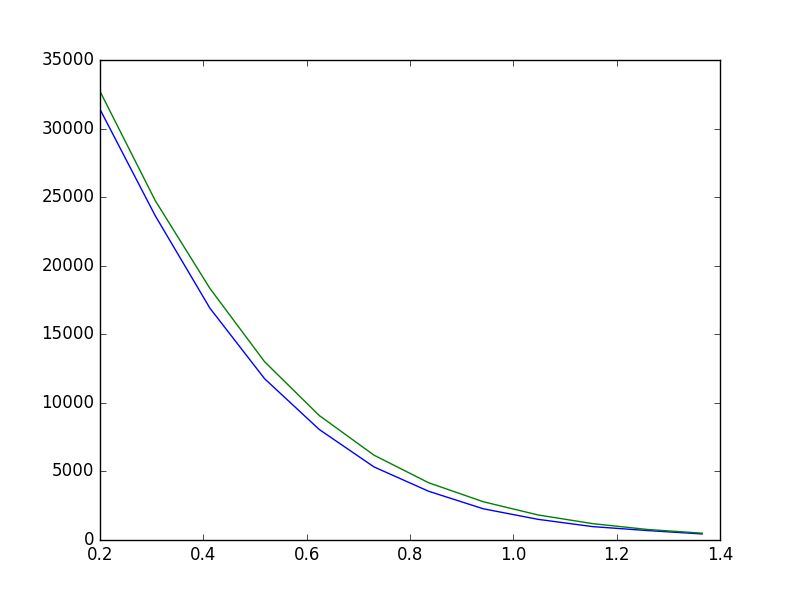
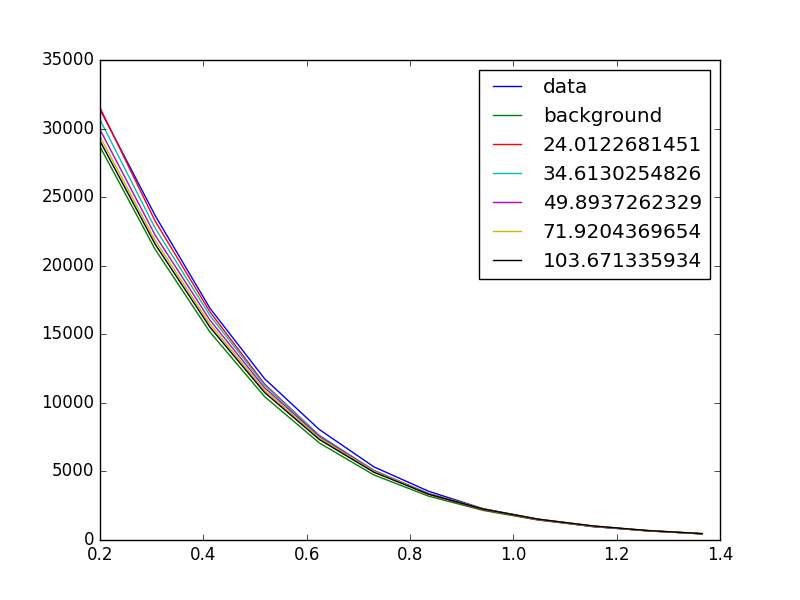
its working as intended

Changed region(s): [[0.5938, 0.09, 0.9062, 0.48], [0.125, 0.18, 0.875, 0.9]]

diff --git a/GCE_calcs/analysis.py b/GCE_calcs/analysis.py
@@ -7,8 +7,11 @@ from scipy import stats
 def poisson_log_like(k,mu):
     return k*np.log(mu) - mu - k*np.log(k) + k
 
+def poisson_log_like_unnorm(k,mu):
+    return k*np.log(mu) - mu
+
 def poisson_like(k,mu):
-    return mu**k * np.exp(-mu) / exp(k*np.log(k) - k)
+    return mu**k * np.exp(-mu) / np.exp(k*np.log(k) - k)
 
 def gauss_log_like(k,mu):
     print k.shape
@@ -28,6 +31,132 @@ def get_J_log_prior_fast(J):
 def get_J_prior_MC(J_range):
     # J_range is a vector of J values where the KDE is to be evaluated
     rho = np.random.normal(0.28,0.08,80000)
-    J = 2e23*rho**2
+    J = 2.e23*rho**2
     J_kde = stats.gaussian_kde(J)
     return J_kde(J_range)
+
+def get_J_prior_Bootes(J):
+    log_J_mean = 18.8
+    log_J_sigma = 0.22
+    exponent = np.random.normal(log_J_mean,log_J_sigma,80000)
+    J_kde = stats.gaussian_kde(10.**exponent)
+    return J_kde(J)
+
+def get_J_prior_CanesVenaticiII(J):
+    log_J_mean = 17.9
+    log_J_sigma = 0.25
+    exponent = np.random.normal(log_J_mean,log_J_sigma,80000)
+    J_kde = stats.gaussian_kde(10.**exponent)
+    return J_kde(J)
+
+def get_J_prior_Carina(J):
+    log_J_mean = 18.1
+    log_J_sigma = 0.23
+    exponent = np.random.normal(log_J_mean,log_J_sigma,80000)
+    J_kde = stats.gaussian_kde(10.**exponent)
+    return J_kde(J)
+
+def get_J_prior_ComaBerenices(J):
+    log_J_mean = 19.0
+    log_J_sigma = 0.25
+    exponent = np.random.normal(log_J_mean,log_J_sigma,80000)
+    J_kde = stats.gaussian_kde(10.**exponent)
+    return J_kde(J)
+
+def get_J_prior_Draco(J):
+    log_J_mean = 18.8
+    log_J_sigma = 0.16
+    exponent = np.random.normal(log_J_mean,log_J_sigma,80000)
+    J_kde = stats.gaussian_kde(10.**exponent)
+    return J_kde(J)
+
+def get_J_prior_Fornax(J):
+    log_J_mean = 18.2
+    log_J_sigma = 0.21
+    exponent = np.random.normal(log_J_mean,log_J_sigma,80000)
+    J_kde = stats.gaussian_kde(10.**exponent)
+    return J_kde(J)
+
+def get_J_prior_Hercules(J):
+    log_J_mean = 18.1
+    log_J_sigma = 0.25
+    exponent = np.random.normal(log_J_mean,log_J_sigma,80000)
+    J_kde = stats.gaussian_kde(10.**exponent)
+    return J_kde(J)
+
+def get_J_prior_LeoII(J):
+    log_J_mean = 17.6
+    log_J_sigma = 0.18
+    exponent = np.random.normal(log_J_mean,log_J_sigma,80000)
+    J_kde = stats.gaussian_kde(10.**exponent)
+    return J_kde(J)
+
+def get_J_prior_LeoIV(J):
+    log_J_mean = 17.9
+    log_J_sigma = 0.28
+    exponent = np.random.normal(log_J_mean,log_J_sigma,80000)
+    J_kde = stats.gaussian_kde(10.**exponent)
+    return J_kde(J)
+
+def get_J_prior_Sculptor(J):
+    log_J_mean = 18.6
+    log_J_sigma = 0.18
+    exponent = np.random.normal(log_J_mean,log_J_sigma,80000)
+    J_kde = stats.gaussian_kde(10.**exponent)
+    return J_kde(J)
+
+def get_J_prior_SegueI(J):
+    log_J_mean = 19.5
+    log_J_sigma = 0.29
+    exponent = np.random.normal(log_J_mean,log_J_sigma,80000)
+    J_kde = stats.gaussian_kde(10.**exponent)
+    return J_kde(J)
+
+def get_J_prior_Sextans(J):
+    log_J_mean = 18.4
+    log_J_sigma = 0.27
+    exponent = np.random.normal(log_J_mean,log_J_sigma,80000)
+    J_kde = stats.gaussian_kde(10.**exponent)
+    return J_kde(J)
+
+def get_J_prior_UrsaMajorII(J):
+    log_J_mean = 19.3
+    log_J_sigma = 0.28
+    exponent = np.random.normal(log_J_mean,log_J_sigma,80000)
+    J_kde = stats.gaussian_kde(10.**exponent)
+    return J_kde(J)
+
+def get_J_prior_UrsaMinor(J):
+    log_J_mean = 18.8
+    log_J_sigma = 0.19
+    exponent = np.random.normal(log_J_mean,log_J_sigma,80000)
+    J_kde = stats.gaussian_kde(10.**exponent)
+    return J_kde(J)
+
+def get_J_prior_WillmanI(J):
+    log_J_mean = 19.1
+    log_J_sigma = 0.31
+    exponent = np.random.normal(log_J_mean,log_J_sigma,80000)
+    J_kde = stats.gaussian_kde(10.**exponent)
+    return J_kde(J)
+
+def get_J_prior_CanesVenaticiI(J):
+    log_J_mean = 17.7
+    log_J_sigma = 0.26
+    exponent = np.random.normal(log_J_mean,log_J_sigma,80000)
+    J_kde = stats.gaussian_kde(10.**exponent)
+    return J_kde(J)
+
+def get_J_prior_LeoI(J):
+    log_J_mean = 17.7
+    log_J_sigma = 0.18
+    exponent = np.random.normal(log_J_mean,log_J_sigma,80000)
+    J_kde = stats.gaussian_kde(10.**exponent)
+    return J_kde(J)
+
+def get_J_prior_UrsaMajorI(J):
+    log_J_mean = 18.3
+    log_J_sigma = 0.24
+    exponent = np.random.normal(log_J_mean,log_J_sigma,80000)
+    J_kde = stats.gaussian_kde(10.**exponent)
+    return J_kde(J)

diff --git a/GCE_jla.py b/GCE_jla.py
@@ -49,68 +49,81 @@ exposure = raw[trunc:dataset,6]
 
 binned_spectra = np.loadtxt('spectra/binned/binned_spectra_'+output_file+'_'+str(dataset)+'_'+str(trunc)+'.dat')
 
+n_J=400
 #J = np.array([1.e21,1.e22,1.e23])
-#J = np.logspace(20.,24.,num=40)
-J = np.array([1.5e22])
+J = np.logspace(20.,24.,num=n_J)
+#J = np.array([1.5e22])
 
-log_sigma = np.linspace(-27.,-23.,num=20)
+n_mass = len(mass_table)
+
+n_sigma = 40
+sigma = np.logspace(-27.,-24.,num=n_sigma)
 #log_sigma = np.array([np.log10(3.e-26)])
 #log_sigma = np.array([-23.,-24.,-25.,-26.,-27.])
 
 #mass = np.array([10,20,30,40,50,60,70])
 
-mu = GCE_calcs.calculations.get_mu(background,exposure, binned_spectra, J, log_sigma, mass_table)
+mu = GCE_calcs.calculations.get_mu(background,exposure, binned_spectra, J, sigma, mass_table)
 
 
-plt.plot(bin_center,k)
-plt.plot(bin_center,mu[10,0,35,:])
+plt.plot(bin_center,k,label = 'data')
+plt.plot(bin_center,background,label = 'background')
+for i in range(5):
+    plt.plot(bin_center,mu[n_sigma/2,n_J/2,5+10*i,:],label = str(mass_table[5+10*i]))
+plt.legend(loc='best')
 plt.savefig('spectra_test.png')
+plt.clf()
 
-print k
-print k - background
+k = np.tile(k,(n_sigma,n_J,n_mass,1))
 
-array_log_like = GCE_calcs.analysis.poisson_log_like(k,mu)
+log_like = GCE_calcs.analysis.poisson_log_like(k,mu)
 
-print array_log_like.shape
+print log_like.shape
 
-gauss_log_like = GCE_calcs.analysis.gauss_log_like_unnorm(k,mu)
+log_like2 = np.sum(log_like,axis=3)
 
-print gauss_log_like.shape
-
-n_cross, n_J, n_mass, n_spec = array_log_like.shape
+print log_like2.shape
 
 J_prior = GCE_calcs.analysis.get_J_prior_MC(J)
 
-J_prior = np.tile(J_prior,(n_cross, n_mass, n_spec, 1))
+norm_test = np.trapz(J_prior,x=J)
 
-J_prior = J_prior.reshape(array_log_like.shape)
+print norm_test
 
-print J_prior.shape
+J_prior = np.tile(J_prior[np.newaxis,:,np.newaxis],(n_sigma,1,n_mass))
 
-post = gauss_log_like + np.log(J_prior)
+norm_test2 = np.trapz(J_prior,x=J,axis=1)
+print norm_test2.shape
+print norm_test2
 
-print post.shape
+J_prior[J_prior==0]=1.e-300
 
-post = np.sum(post,axis=3)
+post_nlp = log_like2 + np.log(J_prior)
 
-print post.shape
+post_test = np.exp(log_like2)*J_prior
 
-post_pdf = np.exp(post)
+post_test2 = np.trapz(post_test,x=J,axis=1)
 
-#J = np.tile()
+post_test3 = np.log(post_test2)
 
-post_pdf = np.trapz(post_pdf,x = J ,axis=1)
+post_test4 = post_test3 - post_test3.max()
 
-print post_pdf.shape
 
-#print post_pdf
 
-post_log_pdf = np.log(post_pdf)
-post_log_pdf = post_log_pdf - post_log_pdf.max()
+post_nlp_min = np.amax(post_nlp,axis=1)
 
-#print post_log_pdf
 
-levels = [0,1.2,3.3,6.35,15]
-plt.contour(mass_table,log_sigma,-post_log_pdf,levels)
+post_nlp_min2 = post_nlp_min - post_nlp_min.max()
+
+
+
+levels = [0,1,3,6,12]
+#plt.contour(mass_table,log_sigma,-post_log_pdf[:,2,:],levels)
+#plt.contour(mass_table,np.log10(sigma),-post_nlp_min2,levels)
+plt.contour(mass_table,np.log10(sigma),-post_test4,levels)
 plt.savefig('array_test.png')
+
+
+
+
 

diff --git a/GCE_calcs/calculations.py b/GCE_calcs/calculations.py
@@ -23,23 +23,22 @@ def J_factor(scale_radius,local_density,gamma):
     deltaomega = (7.*np.pi/180.)**2
     return  deltaomega*J*8.25*kpctocm*local_density*local_density
 
-def get_mu(bckgrnd,exposure,num_spec,J,log_sigma,mass):
-    print bckgrnd
+def get_mu(bckgrnd,exposure,num_spec,J,sigma,mass):
+    #print bckgrnd
     #should return an array of shape (n_cross,n_J,n_mass,n_spec)
-    n_cross = len(log_sigma)
+    n_cross = len(sigma)
     n_mass = len(mass)
     n_J = len(J)
     exposure = np.tile(exposure,(n_mass,1))
     bckgrnd = np.tile(bckgrnd,(n_cross,n_J,n_mass,1))
     mass = np.tile(mass,(num_spec.shape[1],1)).T
-    sigma = 10.**log_sigma
     spec_over_mass = exposure*num_spec /mass**2
     #magic = [num_spec,J,sigma,inv_mass_sqrd]
     #I've no idea why the following line works, but it apparently calculates the outer product of the multiple vectors in 'magic'
     #residual = reduce(np.multiply, np.ix_(*magic))/(8*np.pi)
     #found a more reasonable way to do the above
-    residual = np.einsum('i,j,kl->ijkl',sigma,J,spec_over_mass)/(8*np.pi)
-    print residual[0,0,25,:]
+    residual = np.einsum('i,j,kl->ijkl',sigma,J,spec_over_mass)/(8.*np.pi)
+    #print residual[0,0,25,:]
     return bckgrnd + residual
 
 def conc():
